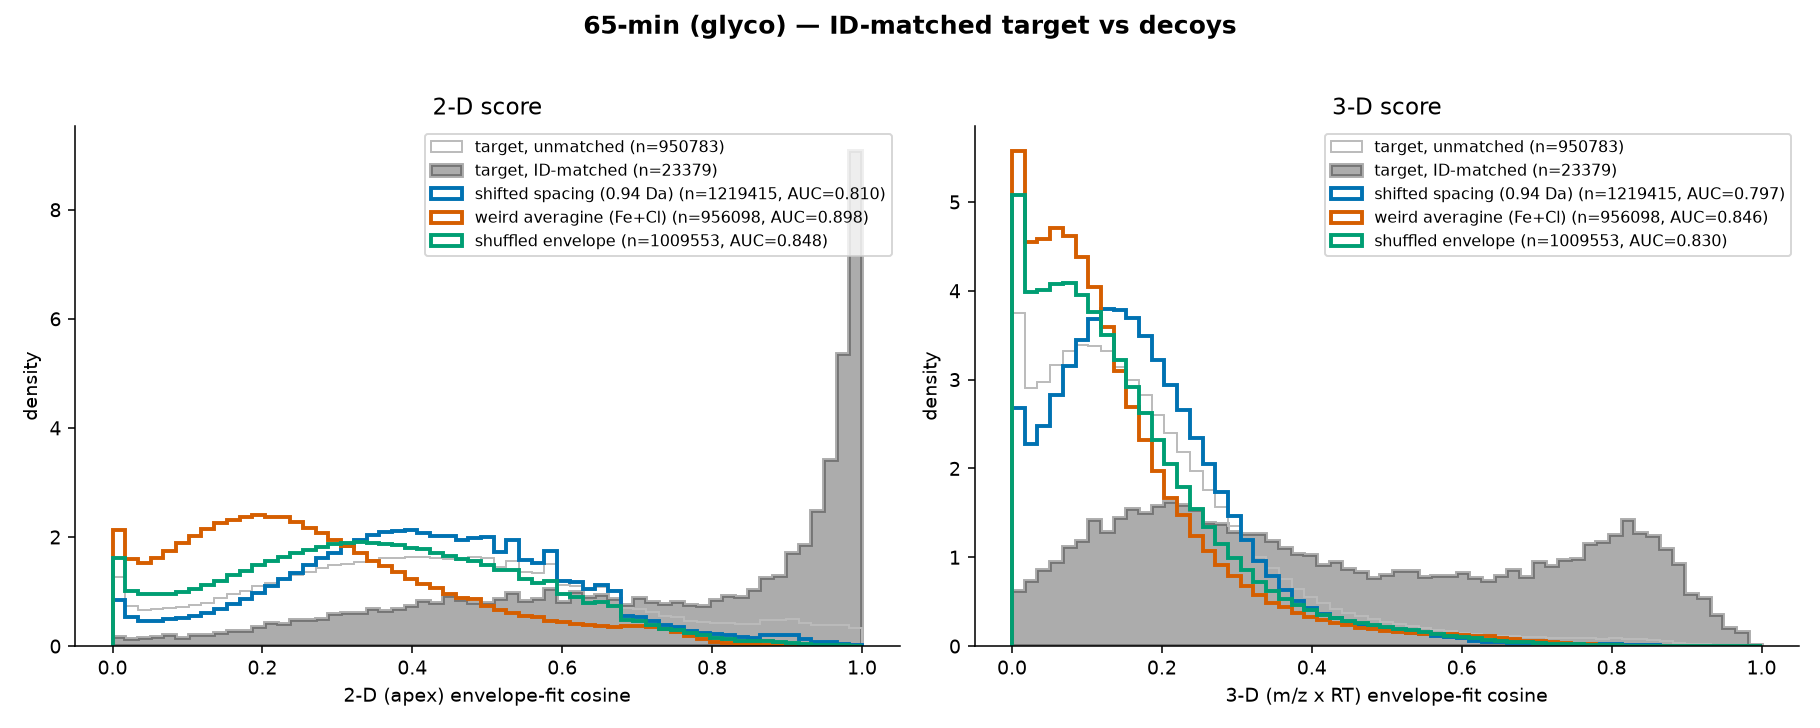
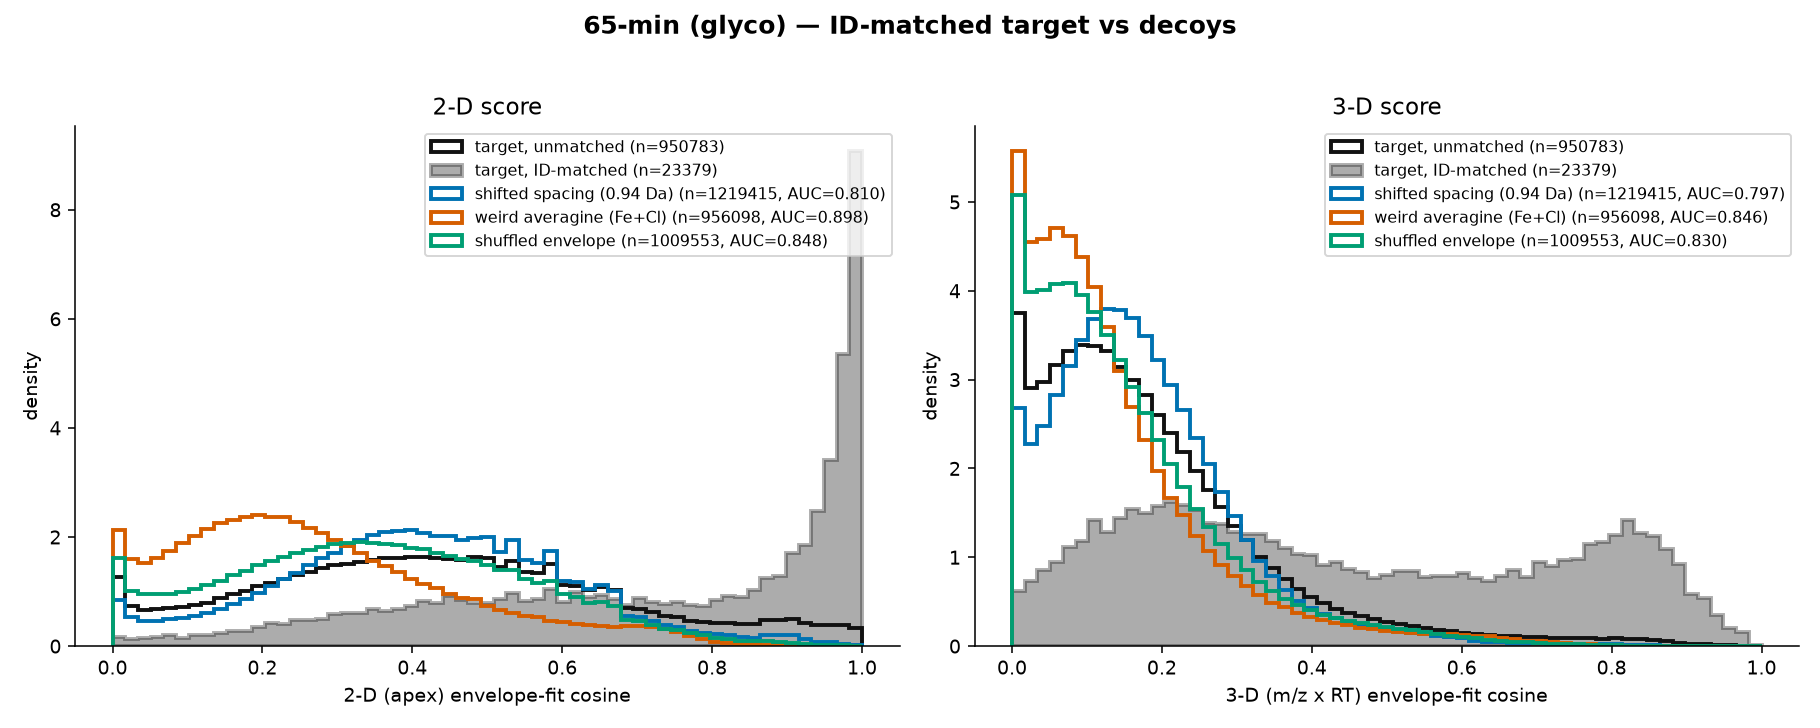
Added dump_envelopes

diff --git a/crates/flashlfq-core/src/trace_kernel.rs b/crates/flashlfq-core/src/trace_kernel.rs
@@ -610,6 +610,38 @@ fn comb_weights(neutral_mass: f64, params: &TraceKernelParameters) -> Vec<f64> {
     }
 }
 
+/// Mono-anchored isotope weights for the configured `weight_model` — the multi-charge (top-down)
+/// analogue of [`comb_weights`], keyed by the **monoisotope** (so the joint-ladder scorer places teeth
+/// upward from the mono). Averagine (and Poisson, which has no mono-keyed exotic form) return the real
+/// averagine envelope — bitwise identical to the previous hardcoded call, so the target path is
+/// unchanged — while every decoy returns its own envelope, so a decoy ladder is scored, refined, and
+/// emitted against the decoy shape and never re-anchored onto the real averagine (the "laundering" fix,
+/// now carried into the top-down path).
+fn multicharge_weights(mono_mass: f64, params: &TraceKernelParameters) -> Vec<f64> {
+    use crate::deconvolution::EnvelopeModel;
+    let model = match params.weight_model {
+        CombWeightModel::Decoy => EnvelopeModel::ChlorinatedDecoy,
+        CombWeightModel::RotatedAveragine => EnvelopeModel::RotatedDecoy,
+        CombWeightModel::ChloroBoroPhosphate => EnvelopeModel::ChloroBoroPhosphateDecoy,
+        CombWeightModel::Custom => EnvelopeModel::CustomDecoy,
+        CombWeightModel::ShuffledAveragine => EnvelopeModel::ShuffledDecoy,
+        CombWeightModel::Hybrid => EnvelopeModel::HybridDecoy,
+        CombWeightModel::Averagine | CombWeightModel::Poisson => EnvelopeModel::Averagine,
+    };
+    model.intensities_from_mono(mono_mass, params.min_isotope_weight, params.max_isotopes)
+}
+
+/// Nominal per-tooth m/z step for charge `z` under `mode` — the ¹³C spacing `(C13−C12)/z`, scaled for
+/// [`LatticeMode::Scaled`]. Used by the cheap fixed-step seed screens on the multi-charge path; the exact
+/// per-index positions come from [`tooth_offsets`] (which also handles `MixedCharge`).
+fn tooth_step(charge: i32, mode: LatticeMode) -> f64 {
+    let base = C13_MINUS_C12 / charge as f64;
+    match mode {
+        LatticeMode::Scaled(s) => base * s,
+        _ => base,
+    }
+}
+
 /// Per-tooth m/z offset from the monoisotope for isotope indices `0..n`, under the configured
 /// [`LatticeMode`]. [`LatticeMode::Uniform`] is the physical comb `k · (C13−C12)/z`; the decoy
 /// lattices deviate. Shared by the scorer and the claim tracer so both lay the identical comb. The
@@ -2614,11 +2646,7 @@ fn score_mass_hypothesis(
     claimed: &HashSet<PeakKey>,
     window: &[(i32, f64)],
 ) -> MassHypothesis {
-    let weights = crate::deconvolution::averagine_intensities_from_mono(
-        mono_mass,
-        params.min_isotope_weight,
-        params.max_isotopes,
-    );
+    let weights = multicharge_weights(mono_mass, params);
     if weights.is_empty() {
         return MassHypothesis { mono_mass, response: 0.0, charges: Vec::new() };
     }
@@ -2631,13 +2659,13 @@ fn score_mass_hypothesis(
         if z == 0 {
             return None;
         }
-        let spacing = C13_MINUS_C12 / z as f64;
+        let offsets = tooth_offsets(z, weights.len(), params.lattice_mode);
         let mono_mz = (mono_mass + z as f64 * PROTON_MASS) / z as f64;
         let mut observed: HashSet<usize> = HashSet::new();
         let mut resp = 0.0;
         for &(s, g) in window {
             for (k, &wk) in weights.iter().enumerate() {
-                let expected_mz = mono_mz + (k as f64) * spacing;
+                let expected_mz = mono_mz + offsets[k];
                 if let Some(peak) = engine.get_indexed_peak(expected_mz, s, ppm) {
                     let key = peak.key();
                     if !claimed.contains(&key) && used.insert(key) {
@@ -2673,7 +2701,7 @@ fn score_mass_hypothesis(
         if mono_mz > mz_hi {
             continue;
         }
-        let top_mz = mono_mz + (n_teeth.saturating_sub(1) as f64) * (C13_MINUS_C12 / z as f64);
+        let top_mz = mono_mz + (n_teeth.saturating_sub(1) as f64) * tooth_step(z, params.lattice_mode);
         if top_mz < mz_lo {
             continue;
         }
@@ -2721,11 +2749,7 @@ fn refine_mono_offset(
         if m < MULTICHARGE_MIN_MASS {
             continue;
         }
-        let weights = crate::deconvolution::averagine_intensities_from_mono(
-            m,
-            params.min_isotope_weight,
-            params.max_isotopes,
-        );
+        let weights = multicharge_weights(m, params);
         if weights.is_empty() {
             continue;
         }
@@ -2735,9 +2759,9 @@ fn refine_mono_offset(
         for ce in &hyp.charges {
             let z = ce.charge;
             let mono_mz = (m + z as f64 * PROTON_MASS) / z as f64;
-            let spacing = C13_MINUS_C12 / z as f64;
+            let offsets = tooth_offsets(z, weights.len(), params.lattice_mode);
             for (k, &wk) in weights.iter().enumerate() {
-                let tooth_mz = mono_mz + (k as f64) * spacing;
+                let tooth_mz = mono_mz + offsets[k];
                 let mut obs = 0.0;
                 for &(s, _g) in window {
                     if let Some(p) = engine.get_indexed_peak(tooth_mz, s, ppm) {
@@ -2771,16 +2795,17 @@ fn gather_charge_extent(
     mono_mz: f64,
     charge: i32,
     weights: &[f64],
+    lattice: LatticeMode,
     s_lo: i32,
     s_hi: i32,
     ppm: &PpmTolerance,
     claimed: &HashSet<PeakKey>,
     seen: &mut HashSet<PeakKey>,
 ) -> Vec<IndexedMassSpectralPeak> {
-    let spacing = C13_MINUS_C12 / charge as f64;
+    let offsets = tooth_offsets(charge, weights.len(), lattice);
     let mut peaks: Vec<IndexedMassSpectralPeak> = Vec::new();
     for k in 0..weights.len() {
-        let tooth_mz = mono_mz + (k as f64) * spacing;
+        let tooth_mz = mono_mz + offsets[k];
         for s in s_lo..=s_hi {
             if let Some(p) = engine.get_indexed_peak(tooth_mz, s, ppm) {
                 let key = p.key();
@@ -2809,8 +2834,7 @@ fn emit_mass_hypothesis(
     claimed: &mut HashSet<PeakKey>,
     features: &mut Vec<DetectedFeature>,
 ) -> bool {
-    let weights =
-        crate::deconvolution::averagine_intensities_from_mono(hyp.mono_mass, params.min_isotope_weight, params.max_isotopes);
+    let weights = multicharge_weights(hyp.mono_mass, params);
     if weights.is_empty() {
         return false;
     }
@@ -2823,7 +2847,7 @@ fn emit_mass_hypothesis(
         // the pre-refinement mass, so it would place the gather comb one ¹³C off after a correction.
         let mono_mz = (hyp.mono_mass + ce.charge as f64 * PROTON_MASS) / ce.charge as f64;
         let peaks = gather_charge_extent(
-            engine, mono_mz, ce.charge, &weights, s_lo, s_hi, ppm, claimed, &mut seen,
+            engine, mono_mz, ce.charge, &weights, params.lattice_mode, s_lo, s_hi, ppm, claimed, &mut seen,
         );
         if peaks.is_empty() {
             continue;
@@ -2988,7 +3012,7 @@ fn detect_features_multicharge(
             if z_seed == 0 {
                 continue;
             }
-            let spacing = C13_MINUS_C12 / z_seed as f64;
+            let spacing = tooth_step(z_seed, params.lattice_mode);
             let mut screen_teeth = 0usize;
             for j in -2..=3 {
                 let mz = seed_mz + j as f64 * spacing;

diff --git a/crates/flashlfq-core/examples/decoy_score_export.rs b/crates/flashlfq-core/examples/decoy_score_export.rs
@@ -23,16 +23,23 @@ use flashlfq_core::peak_indexing::{read_ms1_scans, Scan};
 use flashlfq_core::trace_kernel::{tooth_offsets, LatticeMode};
 
 const TEMPLATE_MIN_WEIGHT: f64 = 1e-3;
-const TEMPLATE_MAX_ISOTOPES: usize = 24;
+/// Default template length. Bottom-up envelopes fit inside ~24 teeth; heavy top-down proteoforms span
+/// 40–60 significant peaks with the mode well above tooth 24, so `SCORE_MAX_ISOTOPES` raises this for
+/// top-down (the ≥`MIN_REL` band is trimmed per feature anyway, so an oversized cap is harmless).
+const TEMPLATE_MAX_ISOTOPES_DEFAULT: usize = 24;
 const TOL_PPM: f64 = 20.0;
 const MIN_REL: f64 = 0.2;
-/// RT Gaussian σ (minutes) for the 3-D elution template — ~0.15 min ≈ 21 s FWHM, in the CA/Lumos
-/// peak-width range. The same weighting is laid for target and decoy, so it does not bias the contrast.
-const RT_SIGMA_MIN: f64 = 0.15;
-/// Half-width (minutes) of the RT window the 3-D score integrates over (± around the apex). Set to
-/// 2·σ so the integration spans the modelled elution rather than a wide noise band — beyond ±2σ the
-/// template weight is < 0.14 and only unexplained off-elution noise would enter the denominator.
-const RT_HALF_WINDOW_MIN: f64 = 2.0 * RT_SIGMA_MIN;
+/// Default RT Gaussian σ (minutes) for the 3-D elution template — ~0.15 min ≈ 21 s FWHM, in the CA/Lumos
+/// peak-width range. Top-down species elute broader (trace half-width ~60 s), so `SCORE_RT_SIGMA` widens
+/// it. The same weighting is laid for target and decoy, so it does not bias the contrast.
+const RT_SIGMA_MIN_DEFAULT: f64 = 0.15;
+
+fn env_usize(key: &str, default: usize) -> usize {
+    std::env::var(key).ok().and_then(|s| s.parse().ok()).unwrap_or(default)
+}
+fn env_f64(key: &str, default: f64) -> f64 {
+    std::env::var(key).ok().and_then(|s| s.parse().ok()).unwrap_or(default)
+}
 
 fn model_from_name(name: &str) -> EnvelopeModel {
     match name {
@@ -174,9 +181,17 @@ fn main() {
         LatticeMode::Scaled(spacing_scale)
     };
 
+    let template_max_isotopes = env_usize("SCORE_MAX_ISOTOPES", TEMPLATE_MAX_ISOTOPES_DEFAULT);
+    let rt_sigma_min = env_f64("SCORE_RT_SIGMA", RT_SIGMA_MIN_DEFAULT);
+    let rt_half_window_min = 2.0 * rt_sigma_min;
+
     let scans = read_ms1_scans(raw.clone()).expect("read raw");
     let feats = read_refined(refined_path);
-    eprintln!("scoring {} features from {refined_path} against {:?} (scale {spacing_scale})", feats.len(), model);
+    eprintln!(
+        "scoring {} features from {refined_path} against {:?} (scale {spacing_scale}, max_iso {template_max_isotopes}, rt_sigma {rt_sigma_min})",
+        feats.len(),
+        model
+    );
 
     let mut out = std::fs::File::create(out_path).expect("create out");
     writeln!(out, "mono\tz\trt\tscore2d\tscore3d").unwrap();
@@ -186,7 +201,7 @@ fn main() {
             continue;
         }
         let mono_mz = mass_to_mz_f64(f.mono, f.z);
-        let template = model.intensities_from_mono(f.mono, TEMPLATE_MIN_WEIGHT, TEMPLATE_MAX_ISOTOPES);
+        let template = model.intensities_from_mono(f.mono, TEMPLATE_MIN_WEIGHT, template_max_isotopes);
         if template.is_empty() {
             continue;
         }
@@ -212,10 +227,10 @@ fn main() {
 
         // 3-D: every scan in the RT window, weighted by the elution Gaussian.
         let mut acc3 = (0.0, 0.0, 0.0);
-        let s_lo = scans.partition_point(|s| s.retention_time < f.rt - RT_HALF_WINDOW_MIN);
-        let s_hi = scans.partition_point(|s| s.retention_time <= f.rt + RT_HALF_WINDOW_MIN);
+        let s_lo = scans.partition_point(|s| s.retention_time < f.rt - rt_half_window_min);
+        let s_hi = scans.partition_point(|s| s.retention_time <= f.rt + rt_half_window_min);
         for scan in &scans[s_lo..s_hi] {
-            let g = gaussian(scan.retention_time - f.rt, RT_SIGMA_MIN);
+            let g = gaussian(scan.retention_time - f.rt, rt_sigma_min);
             if g < 1e-4 {
                 continue;
             }

diff --git a/crates/flashlfq-core/examples/dump_envelopes.rs b/crates/flashlfq-core/examples/dump_envelopes.rs
@@ -1,0 +1,42 @@
+//! Dump the isotope-envelope comb weights of the target averagine and each decoy model at a given
+//! most-abundant (mode) mass, for a visual comparison plot. Uses `EnvelopeModel::comb_weights`, which is
+//! keyed by the **most-intense** mass and normalized to max 1.0 — so every model's mode sits at the same
+//! mass and the same height, and only the envelope *shape* differs.
+//!
+//! Usage: dump_envelopes <mode_mass> <out.tsv>
+//! Emits `model<TAB>k<TAB>weight` where k is the ¹³C index from the model's monoisotope (the mode index
+//! is argmax of the weights; the plotter aligns modes and lays teeth at the model's own spacing).
+
+use std::io::Write;
+use flashlfq_core::deconvolution::EnvelopeModel;
+
+fn main() {
+    let args: Vec<String> = std::env::args().collect();
+    if args.len() < 3 {
+        eprintln!("usage: dump_envelopes <mode_mass> <out.tsv>");
+        std::process::exit(2);
+    }
+    let mode_mass: f64 = args[1].parse().expect("mode_mass must be a float");
+    let out_path = &args[2];
+
+    // (label, model). "shifted" is not a distinct envelope model — it is the real averagine weights laid
+    // on a 0.94-Da lattice — so the plotter derives it from the averagine row; it is not dumped here.
+    let models: &[(&str, EnvelopeModel)] = &[
+        ("averagine", EnvelopeModel::Averagine),
+        ("weird", EnvelopeModel::CustomDecoy),
+        ("shuffled", EnvelopeModel::ShuffledDecoy),
+    ];
+
+    let mut out = std::fs::File::create(out_path).expect("create out");
+    writeln!(out, "model\tk\tweight").unwrap();
+    for (label, model) in models {
+        // Long template so the full 12 kDa envelope is captured (mono-to-mode teeth are all retained).
+        let w = model.comb_weights(mode_mass, 1e-4, 200);
+        for (k, wk) in w.iter().enumerate() {
+            writeln!(out, "{label}\t{k}\t{wk:.6}").unwrap();
+        }
+        eprintln!("{label}: {} teeth, mode at index {}", w.len(),
+                  w.iter().enumerate().fold((0usize, 0.0f64), |(bi, bv), (i, &v)| if v > bv { (i, v) } else { (bi, bv) }).0);
+    }
+    eprintln!("wrote {out_path}");
+}

diff --git a/agent_info/Decoy-Feature-Detection.md b/agent_info/Decoy-Feature-Detection.md
@@ -76,6 +76,43 @@ python analysis/decoy_features/plot_decoys.py
 Full orchestration: `analysis/decoy_features/plot_decoys.py` + the run script used to produce the
 figures under `analysis/decoy_features/plots/`.
 
+## Top-down extension (2026-07-14) — decoys threaded into the multi-charge detector
+
+The three decoys were extended to the **top-down** joint charge-ladder detector, which the original port
+had left on the physical averagine lattice. `score_mass_hypothesis`, `refine_mono_offset`,
+`gather_charge_extent`, `emit_mass_hypothesis`, and the seed spacing screen in `detect_features_multicharge`
+now use model-aware weights (`multicharge_weights`, a mono-keyed dispatch analogous to `comb_weights`) and
+`tooth_offsets` / `tooth_step` under `params.lattice_mode`. Averagine/`Uniform` (the target path) is bitwise
+unchanged. `decoy_score_export` gained `SCORE_MAX_ISOTOPES` / `SCORE_RT_SIGMA` (heavy proteoforms span
+>24 teeth and elute broader than 0.15 min). Full write-up + tables + plots:
+`analysis/decoy_features_topdown/` (`report.md`, `analyze_topdown_decoys.py`, `run_topdown_decoys.ps1`).
+
+Datasets: **Golden** (`golden.raw`, GT `gt_golden_all.tsv`, 930) and **Jurkat**
+(`02-18-20_jurkat_td_rep1_fract6.raw`, GT `gt_jurkat_intersect.tsv`, 1541 hi-conf). Config isolates the
+envelope model: `TOPDOWN=1 APEX_PREGATE=0 REFINE_METHOD=shift_apex TD_MONO_FIT=0 ISODEC_CHARGE=0` — the
+multi-envelope refine, averagine mono-fit, and IsoDec are OFF because they re-anchor a decoy onto the real
+averagine (laundering); `shift_apex` refine and the multi-charge `MC_MONO_KMAX` refine are decoy-aware.
+
+Results (ROC-AUC, ID-matched target vs decoy):
+
+| dataset | shifted 2-D/3-D | weird 2-D/3-D | shuffled 2-D/3-D |
+|---------|:---------------:|:-------------:|:----------------:|
+| Golden | 0.715 / 0.726 | **0.938** / 0.885 | 0.896 / 0.865 |
+| Jurkat | 0.694 / 0.669 | **0.922** / 0.785 | 0.899 / 0.795 |
+
+Findings: (1) same decoy-strength ranking as bottom-up (**weird > shuffled > shifted**); at a 5%-decoy-pass
+threshold, weird retains ~76–79% of real IDs on both files. (2) **Shifted spacing is a weak top-down decoy**
+(AUC 0.69–0.72, worse than bottom-up) — a 0.94-Da comb at high charge barely leaves the ¹³C lattice and the
+dense high-charge spectra still hit real peaks by coincidence. (3) **2-D > 3-D on both files** (wide-window
+3-D folds in off-apex noise). (4) Real-feature cosines are lower on Jurkat (heavy 13–21 kDa envelopes), so
+thresholds are lower and file-specific — calibrate per file.
+
+**Threshold terminology (correction):** the two reported operating points are **95% recall** (5th pct of
+ID-matched target scores) and **95% decoy-rejection** (95th pct of decoy scores → only 5% of decoys pass).
+The latter is a 5% false-positive / 95%-specificity cut (a decoy-based critical value at α=0.05), **not**
+classifier precision `TP/(TP+FP)`; the two diverge sharply here because decoy features outnumber ID-matched
+targets ~10:1.
+
 ## Results (2026-07-14, `decoy-features` branch)
 
 Full 3-file × 4-model sweep, `APEX_PREGATE=0`, `MIN_SEED_INTENSITY=1000`, `COVERAGE_TARGET=1.0`. Target
